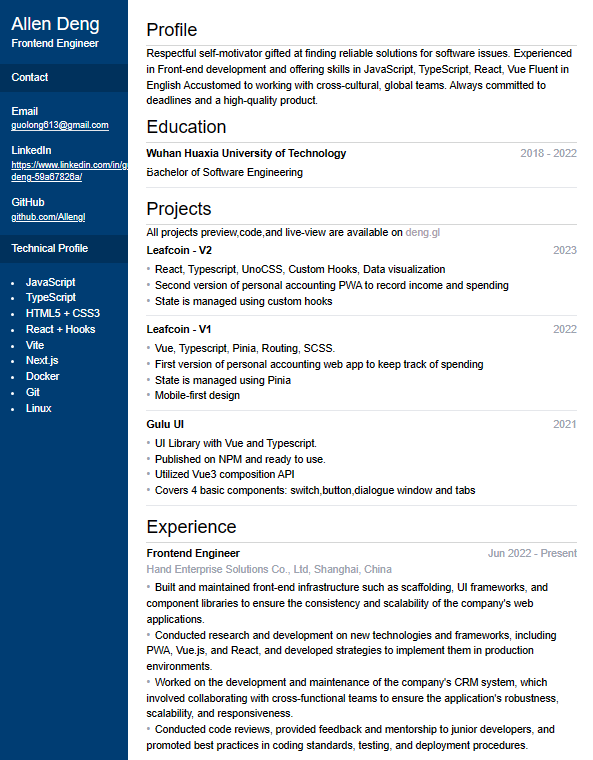
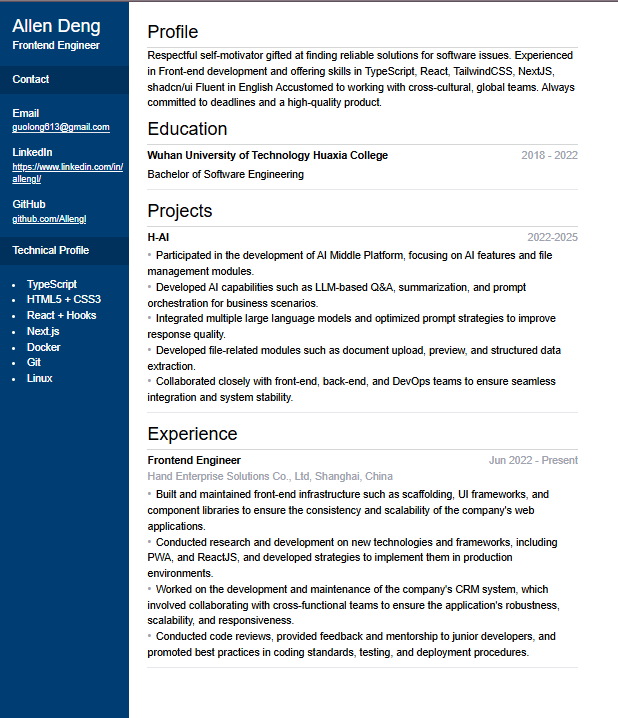
update resume

diff --git a/app/page.tsx b/app/page.tsx
@@ -26,8 +26,9 @@ export default function Home() {
               <dd><a className="border-b-[1px] border-inherit" href="mailto:guolong613@gmail.com">guolong613@gmail.com</a></dd>
               <dt>LinkedIn</dt>
               <dd>
-                <a className="underline" href="https://www.linkedin.com/in/guolong-deng-59a67826a/">
-                  https://www.linkedin.com/in/guolong-deng-59a67826a/
+                <a className="underline" href="https://www.linkedin.com/in/allengl/">
+                  https://www.linkedin.com/in/
+                  allengl/
                 </a>
               </dd>
               <dt>GitHub</dt>
@@ -43,11 +44,9 @@ export default function Home() {
           </Box>
           <Box className="py-4">
             <ul className="list-disc list-inside">
-              <li>JavaScript</li>
               <li>TypeScript</li>
               <li>HTML5 + CSS3</li>
               <li>React + Hooks </li>
-              <li>Vite</li>
               <li>Next.js</li>
               <li>Docker</li>
               <li>Git</li>
@@ -61,7 +60,7 @@ export default function Home() {
             <article>
               Respectful self-motivator gifted at finding reliable solutions for software issues.
               Experienced in Front-end development and offering skills in
-              JavaScript, TypeScript, React, Vue
+              TypeScript, React, TailwindCSS, NextJS, shadcn/ui
               Fluent in English
               Accustomed to working with cross-cultural, global teams.
               Always committed to deadlines and a high-quality product.
@@ -71,7 +70,7 @@ export default function Home() {
           <Education>
             <dt>
               <div>
-                <h3>Wuhan Huaxia University of Technology</h3>
+                <h3>Wuhan University of Technology Huaxia College                </h3>
               </div>
               <div className="minor">2018 - 2022</div>
             </dt>
@@ -80,9 +79,9 @@ export default function Home() {
             </dd>
           </Education>
           <Title>Projects</Title>
-          <p>All projects preview,code,and live-view are available on <a className='text-[#aca3af]' href='https://deng.gl/'>deng.gl</a></p>
+          {/* <p>All projects preview,code,and live-view are available on <a className='text-[#aca3af]' href='https://deng.gl/'>deng.gl</a></p> */}
           <Projects>
-            <dt>
+            {/* <dt>
               <div>
                 <h3>Leafcoin - V2</h3>
               </div>
@@ -122,6 +121,21 @@ export default function Home() {
                 <li>Utilized Vue3 composition API</li>
                 <li>Covers 4 basic components: switch,button,dialogue window and tabs</li>
               </List>
+            </dd> */}
+            <dt>
+              <div>
+                <h3><a href="https://www.hand-china.com/p-hcopilot_aigc.html" target='_blank'>H-AI</a></h3>
+              </div>
+              <div className="minor">2022-2025</div>
+            </dt>
+            <dd>
+              <List>
+                <li>Participated in the development of AI Middle Platform, focusing on AI features and file management modules.</li>
+                <li>Developed AI capabilities such as LLM-based Q&A, summarization, and prompt orchestration for business scenarios.</li>
+                <li>Integrated multiple large language models and optimized prompt strategies to improve response quality.</li>
+                <li>Developed file-related modules such as document upload, preview, and structured data extraction.</li>
+                <li>Collaborated closely with front-end, back-end, and DevOps teams to ensure seamless integration and system stability.</li>
+              </List>
             </dd>
           </Projects>
           <Title>Experience</Title>
@@ -136,7 +150,7 @@ export default function Home() {
             <dd>
               <List>
                 <li>Built and maintained front-end infrastructure such as scaffolding, UI frameworks, and component libraries to ensure the consistency and scalability of the company's web applications.</li>
-                <li>Conducted research and development on new technologies and frameworks, including PWA, Vue.js, and React, and developed strategies to implement them in production environments.</li>
+                <li>Conducted research and development on new technologies and frameworks, including PWA, and ReactJS, and developed strategies to implement them in production environments.</li>
                 <li>Worked on the development and maintenance of the company's CRM system, which involved collaborating with cross-functional teams to ensure the application's robustness, scalability, and responsiveness.</li>
                 <li>Conducted code reviews, provided feedback and mentorship to junior developers, and promoted best practices in coding standards, testing, and deployment procedures.</li>
               </List>
